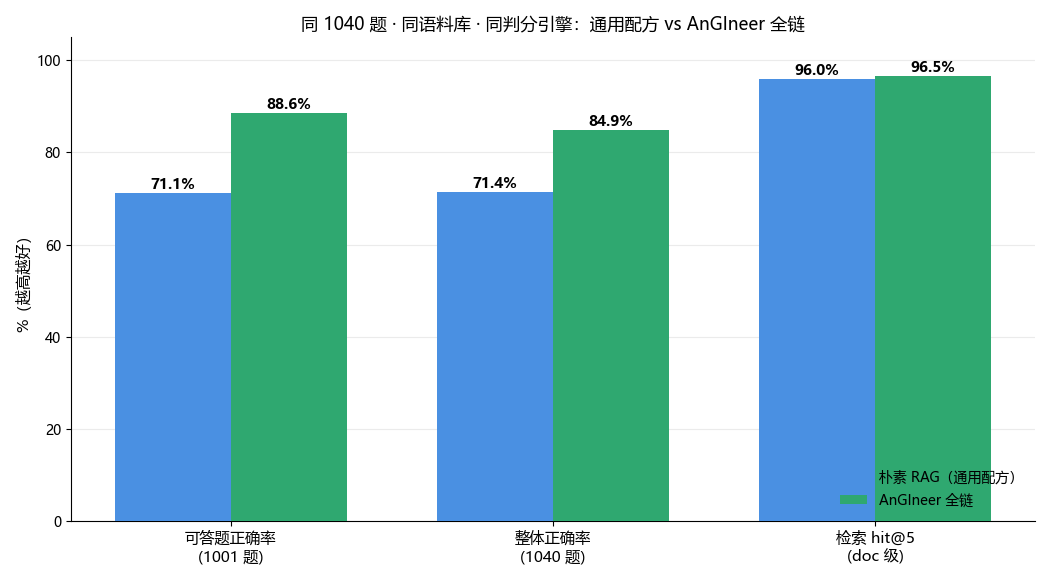
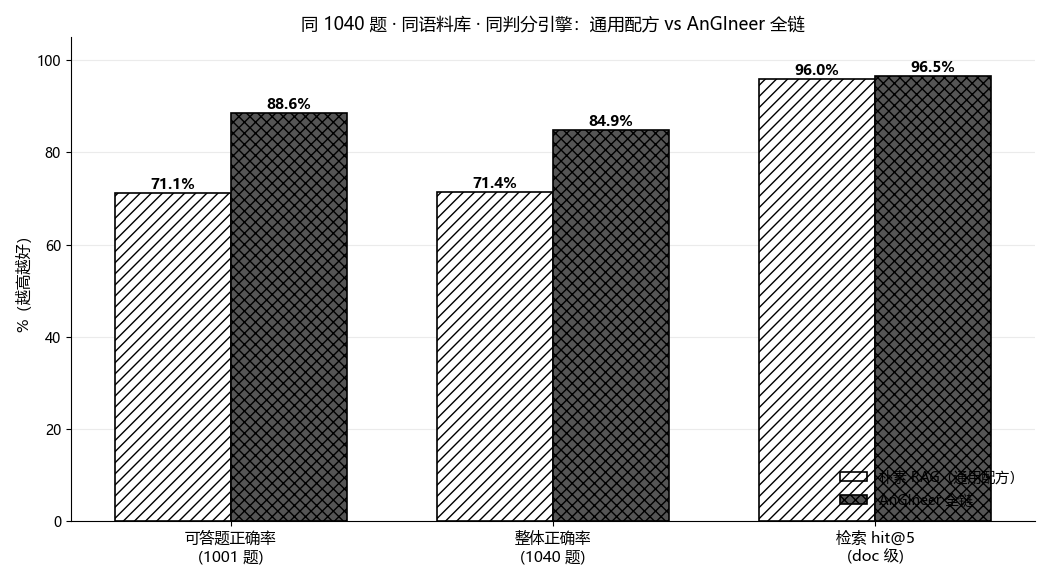
docs(readme): 回答成绩小节调序（对比臂在前、v4 基线在后）+ 对比图改网格纹理模式（白底斜线=朴素RAG / 深灰交叉网=全链，去蓝绿、黑白打印友好）；配文注明两臂生成模型同为 Qwen3.6-35B（隔离工程层变量的预注册设计）

diff --git a/scripts/naive_rag_baseline.py b/scripts/naive_rag_baseline.py
@@ -392,12 +392,13 @@ def cmd_chart() -> int:
                ("检索 hit@5\n(doc 级)", "hit5")]
     fig, ax = plt.subplots(figsize=(10.5, 5.8), dpi=100)
     width = 0.36
-    for i, (vals, label, color) in enumerate((
-            (naive, "朴素 RAG（通用配方）", "#4a90e2"),
-            (FULL_CHAIN, "AnGIneer 全链", "#2fa870"),
+    for i, (vals, label, face, hatch) in enumerate((
+            (naive, "朴素 RAG（通用配方）", "white", "///"),
+            (FULL_CHAIN, "AnGIneer 全链", "#555555", "xxx"),
     )):
         pos = [x + (i - 0.5) * width for x in range(len(metrics))]
-        bars = ax.bar(pos, [vals[k] for _, k in metrics], width=width, label=label, color=color, zorder=3)
+        bars = ax.bar(pos, [vals[k] for _, k in metrics], width=width, label=label, zorder=3,
+                      facecolor=face, edgecolor="black", linewidth=1.2, hatch=hatch)
         for rect, (_, k) in zip(bars, metrics):
             ax.annotate(f"{vals[k]:.1f}%", (rect.get_x() + rect.get_width() / 2, vals[k]),
                         ha="center", va="bottom", fontsize=10.5, fontweight="bold")
